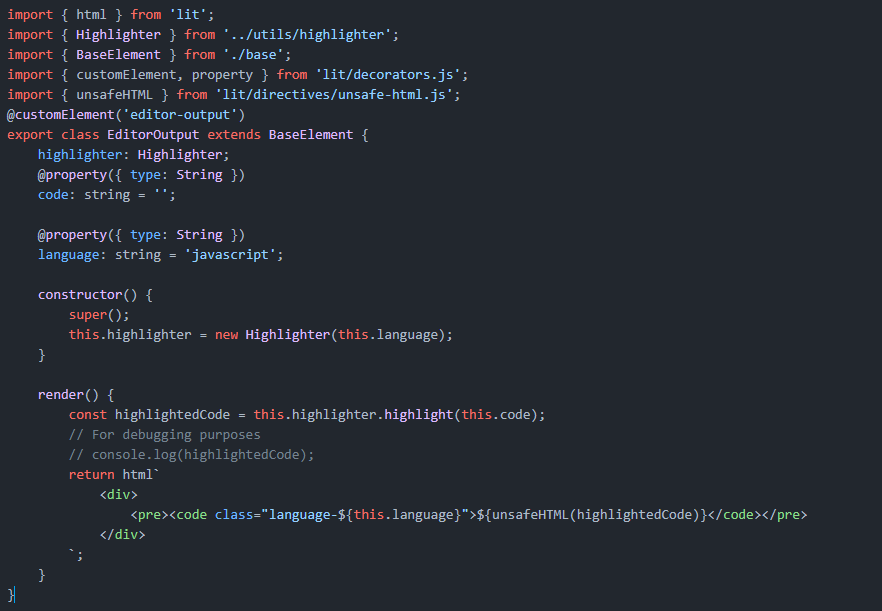
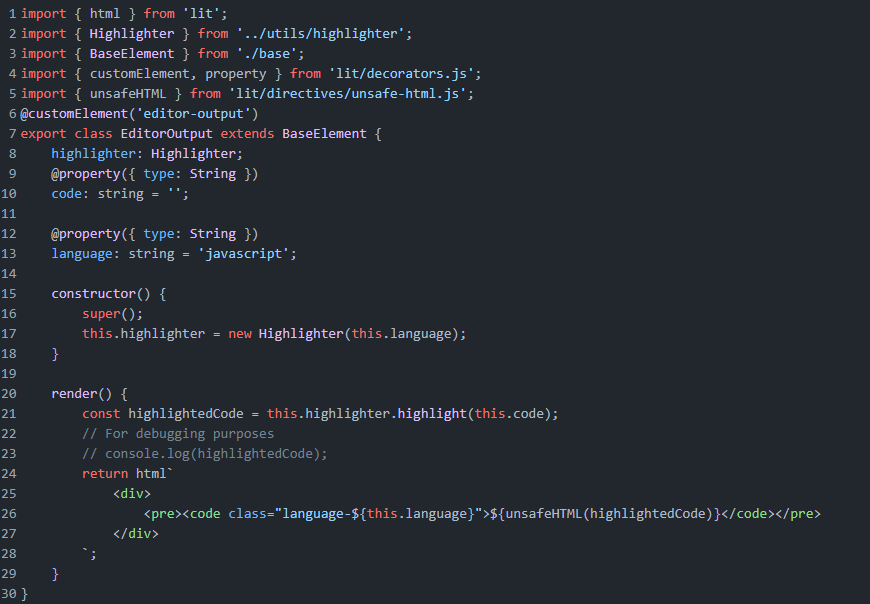
docs: add readme

Changed region(s): [[0.0, 0.3576, 0.931, 1.0], [0.0, 0.0, 0.5586, 0.3278]]

diff --git a/README.md b/README.md
@@ -1,0 +1,70 @@
+# My Editor
+
+A simple web-based code editor built with Lit, Vite, and Tailwind CSS. It features live syntax highlighting (using highlight.js), line numbers, and a modern UI.
+
+![Preview](./preview.png)
+
+## Features
+- Live syntax highlighting for JavaScript (and other languages supported by highlight.js)
+- Auto-expanding textarea for code input
+- Overlay rendering for real-time highlighted output
+- Custom line numbers component
+- Built with Lit Web Components
+- Styled with Tailwind CSS
+
+## Getting Started
+
+### Prerequisites
+- Node.js (v18 or newer recommended)
+- npm
+
+### Installation
+```bash
+npm install
+```
+
+### Development
+Start the development server:
+```bash
+npm run dev
+```
+Open [http://localhost:5173](http://localhost:5173) in your browser.
+
+### Build
+To build for production:
+```bash
+npm run build
+```
+
+### Preview Production Build
+```bash
+npm run preview
+```
+
+## Project Structure
+```
+my-editor/
+├── index.html
+├── preview.png
+├── package.json
+├── src/
+│   ├── index.css
+│   ├── my-element.ts
+│   └── ui/
+│       ├── base.ts
+│       ├── editor-input.ts
+│       ├── editor-output.ts
+│       ├── editor-linenumbers.ts
+│       └── text-editor.ts
+│   └── utils/
+│       ├── highlighter.ts
+│       └── language.ts
+└── ...
+```
+
+## Customization
+- To change the syntax highlighting theme, import a different CSS file from `highlight.js/styles/` in your `index.css` or main entry file.
+- To add more languages, ensure highlight.js supports them and update the `language` property as needed.
+
+## License
+MIT
